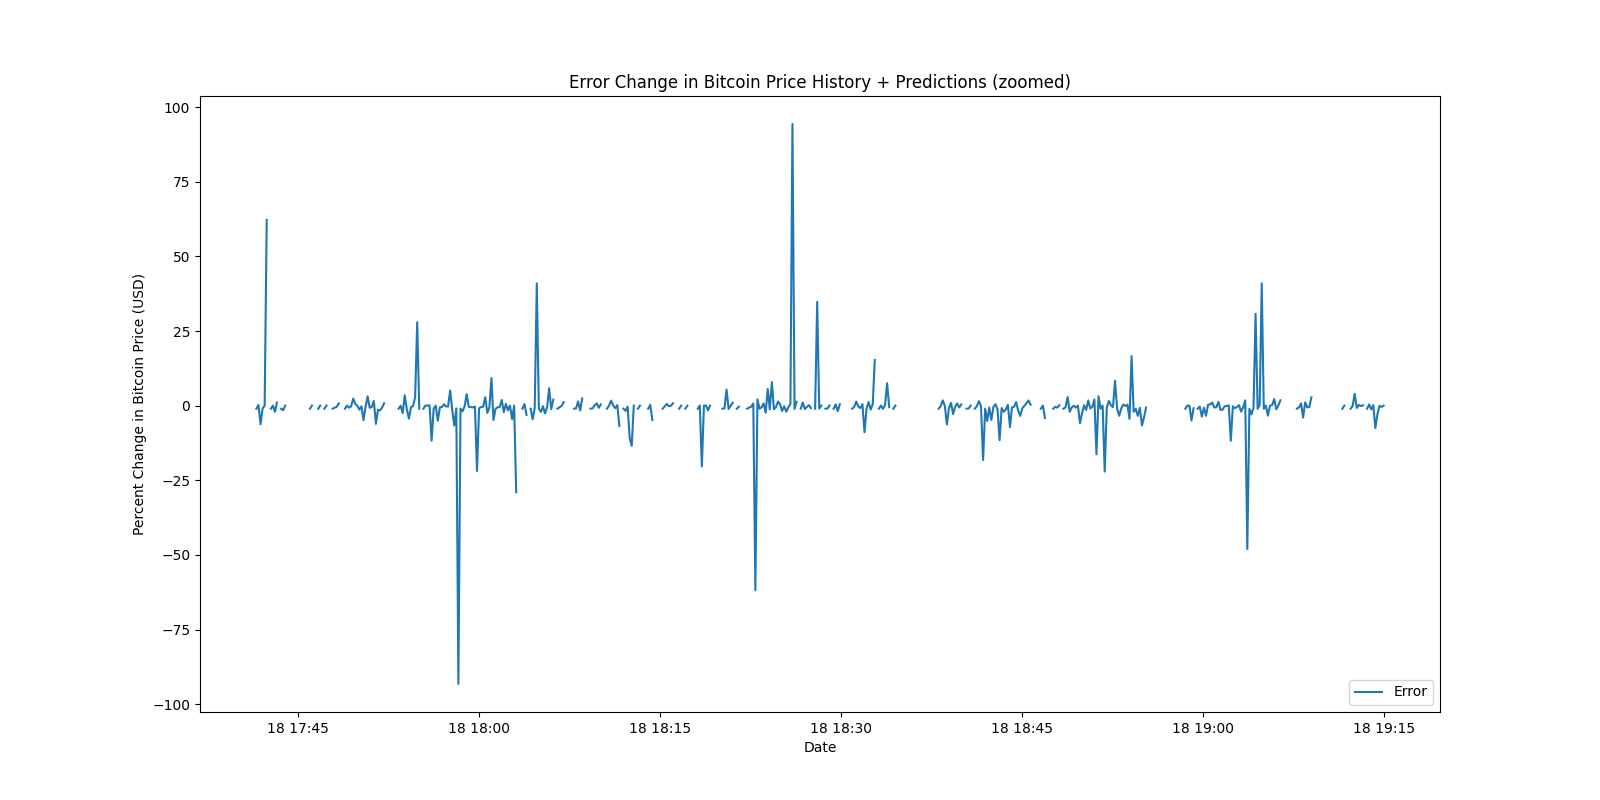
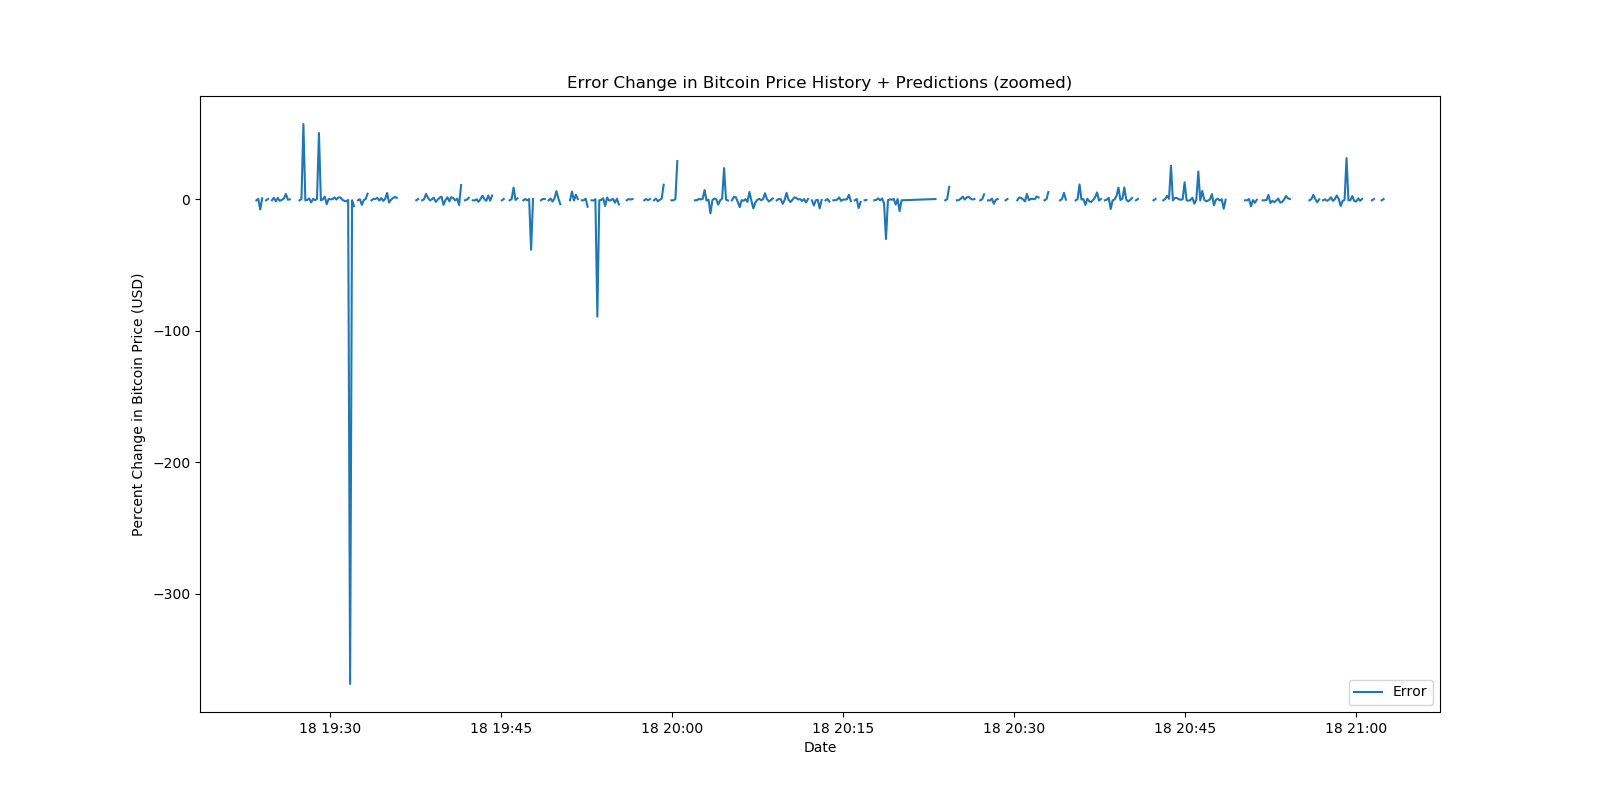
update UNITS and LOOKBACK and README

diff --git a/CryptoTrader.py b/CryptoTrader.py
@@ -4,5 +4,5 @@ headers = {
         'timestamp': 'unix',
         'price': 'a' # the column used for price
         }
-cp = CryptoPredict.CryptoPredictor(lookback=1,epochs=13,units=256,batch_size=1,datafile='data/data121820.csv', cutpoint=2400, important_headers=headers)
+cp = CryptoPredict.CryptoPredictor(lookback=1,epochs=13,units=1500,batch_size=1,datafile='data/data121820.csv', cutpoint=2400, important_headers=headers)
 cp.main()

diff --git a/README.md b/README.md
@@ -8,7 +8,7 @@ An automated speed trading algorithm for cryprocurrency using LSTM. Cryptocurren
 
 ### Trading Logic
 
-The trading logic used for this is based on the derivative of the predictions graph. Currently the algorithm is able to correctly predict whether the crypto price is increasing or decreasing no less than 80% of the time. I have found the model to perform best with the lookback set to `10`, epochs between `10` and `15`, and units to `65`. As far as structure goes – the main class will be `CryptoTrader`. It will incorporate `CrytoPredict` and `KrakenTrader` and bring them together in one class for a fully functioned release.
+The trading logic used for this is based on the derivative of the predictions graph. Currently the algorithm is able to correctly predict whether the crypto price is increasing or decreasing no less than 80% of the time. I have found the model to perform best with the lookback set to `1`, epochs between `10` and `15`, and units between `1024` and `2048`. However, these values can cause the model to take quite a bit of time to train. In application the model is expected to be trained every half hour or less. As far as structure goes – the main class will be `CryptoTrader`. It will incorporate `CrytoPredict` and `KrakenTrader` and bring them together in one class for a fully functioned release.
 
 ```
 $ python3 CryptoTrader.py
